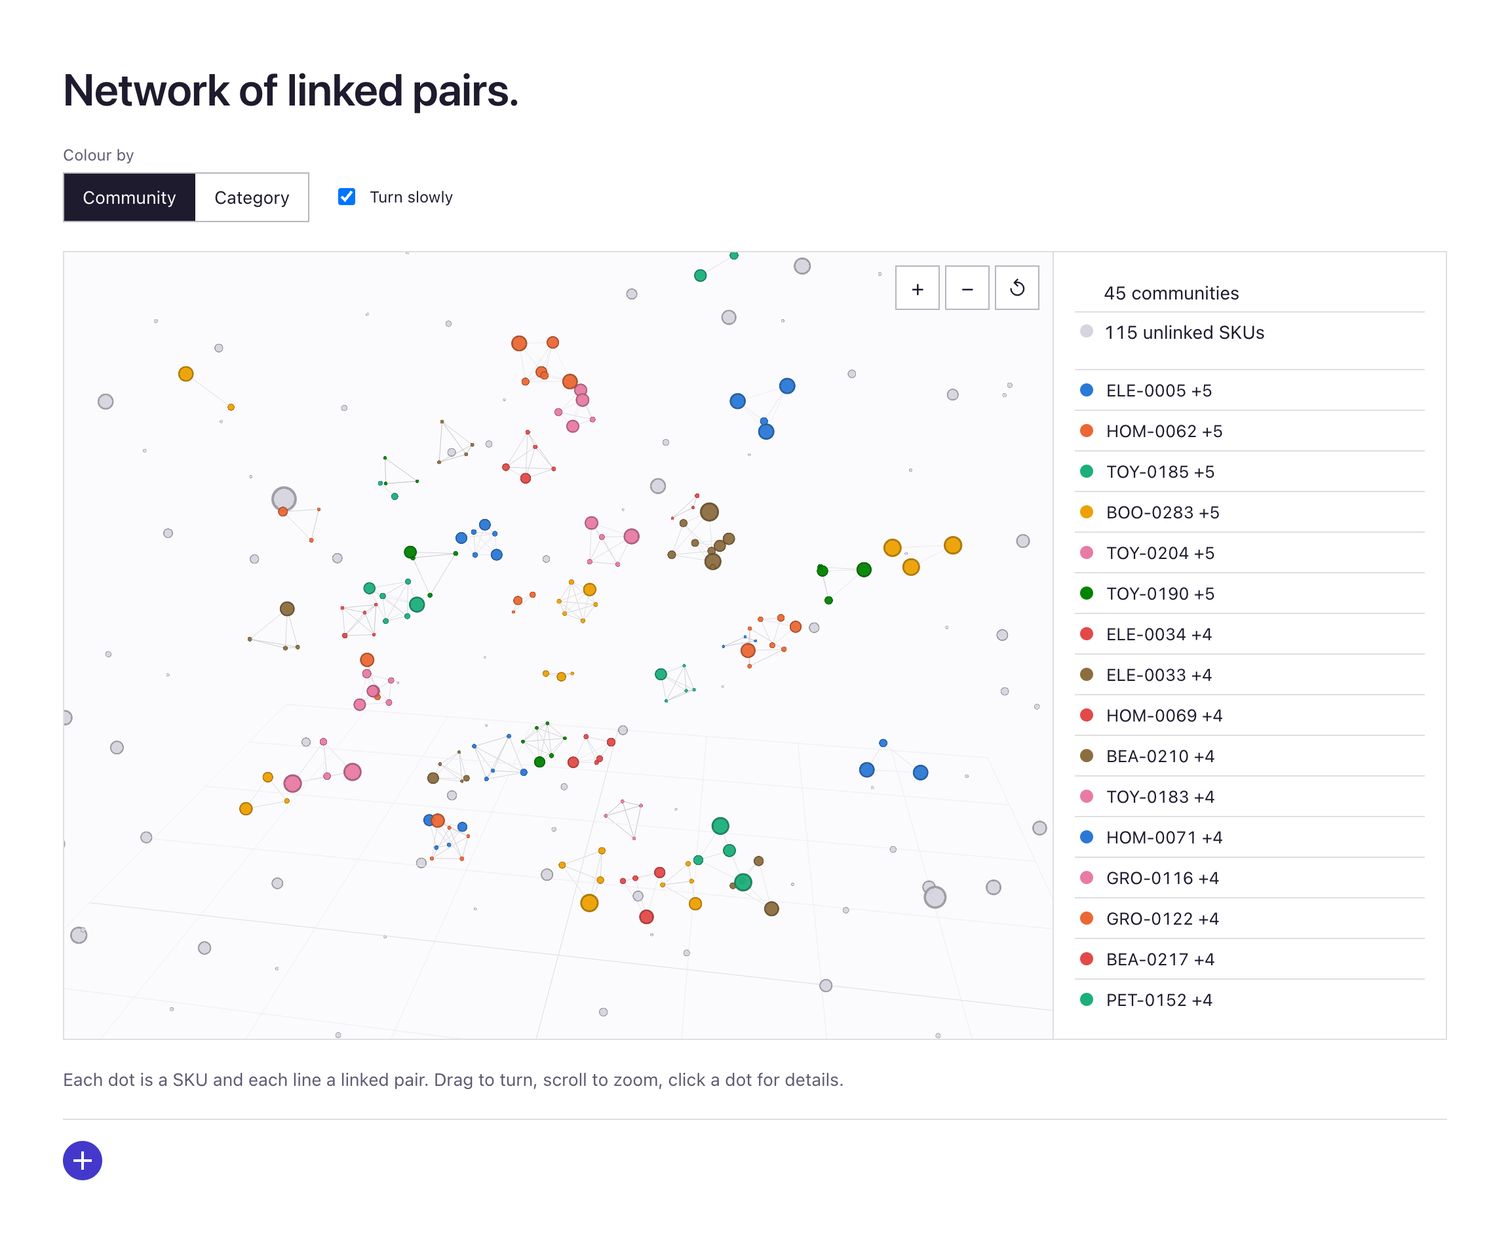
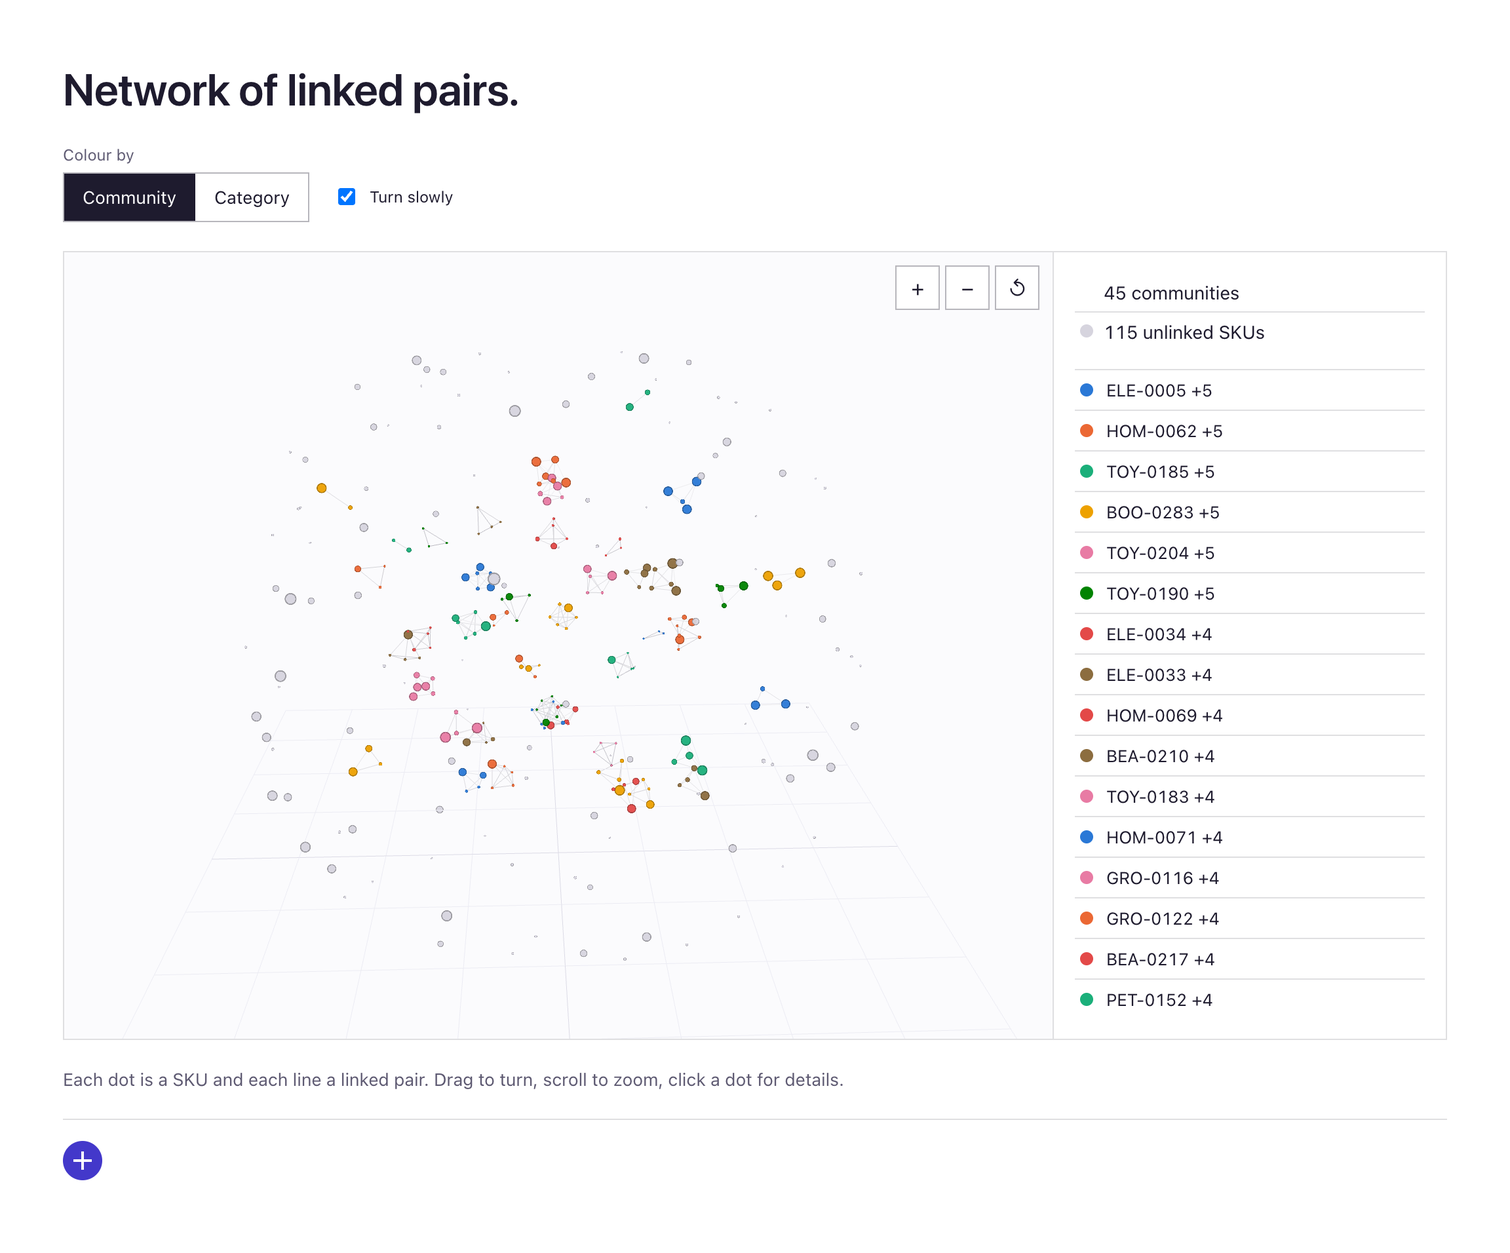
Shorter README, the replay's cash against the live game, new screenshots

diff --git a/backend/verification/replay_cash_chart.py b/backend/verification/replay_cash_chart.py
@@ -1,0 +1,90 @@
+"""Draw the README chart of the Run 3 replay's cash against the live game (five seeds).
+
+Usage: uv run --with matplotlib python verification/replay_cash_chart.py [out.png]
+"""
+
+import csv
+import statistics
+import sys
+from pathlib import Path
+
+import matplotlib
+
+matplotlib.use("Agg")
+import matplotlib.pyplot as plt  # noqa: E402
+from matplotlib import font_manager  # noqa: E402
+
+from scgame.engine import Engine  # noqa: E402
+from scgame.history import read_history_xlsx, replay  # noqa: E402
+from scgame.scenario import Scenario  # noqa: E402
+
+ROOT = Path(__file__).resolve().parents[2]
+OUT = Path(sys.argv[1]) if len(sys.argv) > 1 else ROOT / "docs" / "screenshots" / "replay-cash.png"
+DATA = ROOT / "reference" / "data"
+INK, ACCENT, MUTED, HAIR, BAND = "#1e1b2e", "#4338ca", "#6b6880", "#e6e4ec", "#f4f3f8"
+
+scenario = Scenario.load(ROOT / "scenarios" / "classic-network.json")
+decisions = read_history_xlsx(DATA / "run3_history.xlsx", {r.name: r.id for r in scenario.regions})
+live = {int(r["day"]): float(r["cash_thousands"]) * 1000 for r in csv.DictReader(open(DATA / "run3_live_cash.csv"))}
+
+runs = []
+for seed in range(5):
+    engine = Engine(scenario, seed=seed)
+    assert replay(engine, decisions) == []
+    runs.append({r.day: r.cash for r in engine.records})
+
+days = [d for d in range(731, 1461) if d in live]
+sim = [statistics.mean(run[d] for run in runs) for d in days]
+real = [live[d] for d in days]
+gap = [s - r for s, r in zip(sim, real)]
+gaps = [[run[d] - live[d] for d in days] for run in runs]
+print(f"final replay {sim[-1]:,.0f} live {real[-1]:,.0f} ({sim[-1] / real[-1] - 1:+.2%})")
+print("largest gap ($k):", max(abs(g) for row in gaps for g in row) / 1e3)
+
+for path in ("/System/Library/Fonts/SFNS.ttf",):
+    if Path(path).exists():
+        font_manager.fontManager.addfont(path)
+        plt.rcParams["font.family"] = font_manager.FontProperties(fname=path).get_name()
+plt.rcParams.update({"font.size": 13, "axes.edgecolor": HAIR, "axes.labelcolor": MUTED, "xtick.color": MUTED,
+                     "ytick.color": MUTED, "xtick.major.size": 0, "ytick.major.size": 0})
+
+fig, (top, low) = plt.subplots(2, 1, figsize=(11.52, 5.6), dpi=200, sharex=True,
+                               gridspec_kw={"height_ratios": [3, 1.15], "hspace": 0.2})
+fig.patch.set_facecolor("white")
+for ax in (top, low):
+    ax.set_facecolor("white")
+    for side in ("top", "right", "left"):
+        ax.spines[side].set_visible(False)
+    ax.spines["bottom"].set_color(HAIR)
+    ax.grid(axis="y", color=HAIR, linewidth=0.8)
+    ax.set_axisbelow(True)
+    ax.axvspan(730.5, 800.5, color=BAND, zorder=0, linewidth=0)
+
+top.plot(days, real, color=INK, linewidth=1.6, label="Live game")
+top.plot(days, sim, color=ACCENT, linewidth=1.6, label="Replay, five seeds")
+top.set_ylim(0, 30e6)
+top.set_yticks([0, 10e6, 20e6, 30e6])
+top.set_yticklabels(["0", "10", "20", "30"])
+top.set_ylabel("Cash ($M)")
+top.text(765.5, 28.6e6, "First ten\nweeks", ha="center", va="top", color=MUTED, fontsize=11, linespacing=1.25)
+top.text(1466, sim[-1], f"${sim[-1] / 1e6:.2f}M", color=INK, va="bottom", fontsize=12.5)
+top.text(1466, real[-1], f"${real[-1] / 1e6:.2f}M", color=INK, va="top", fontsize=12.5)
+legend = top.legend(loc="upper left", bbox_to_anchor=(0.125, 1.0), frameon=False, ncol=2, fontsize=12.5,
+                    handlelength=1.6, columnspacing=2.0)
+for t in legend.get_texts():
+    t.set_color(INK)
+
+low.axhline(0, color=INK, linewidth=0.8)
+for row in gaps:
+    low.plot(days, [g / 1e6 for g in row], color=ACCENT, linewidth=0.9, alpha=0.55)
+low.set_ylabel("Gap ($M)")
+low.set_ylim(-1.2, 2.6)
+low.set_yticks([-1, 0, 1, 2])
+low.set_yticklabels(["\u22121", "0", "1", "2"])
+low.set_xlim(730, 1460)
+low.set_xticks([730, 900, 1100, 1300, 1460])
+low.set_xlabel("Day")
+
+fig.subplots_adjust(left=0.07, right=0.915, top=0.97, bottom=0.12)
+fig.savefig(OUT, facecolor="white")
+print("saved", OUT)

diff --git a/README.md b/README.md
@@ -1,28 +1,25 @@
 # Supply Chain Studio
 
-Supply Chain Studio is a discrete-event simulator of a multi-region supply network, with a set of
-machine learning and operations research models for the long-term questions a network planner
-faces. The simulator runs a chemical producer's factories and warehouses across five regions, day
-by day, and every cost, lead time and event is a scenario parameter. It has been checked against a
-real run. Replaying all 1,770 decisions my team made in a live game, the simulated cash stays
-within $1k of the live game on almost every day of the first ten weeks and finishes 1.6% from the
-live result of $25.95M.
+A discrete-event simulator of a multi-region supply network, and a set of machine learning and
+operations research models for the long-term questions a network planner faces. The simulator is
+checked against a real run of the classroom game its rules come from. Replaying all 1,770
+decisions of that run ends 1.6% from the live final cash of $25.95M.
 
-<img src="docs/screenshots/simulator-network.png" alt="The simulator on day 1,201 of a replayed run, with factories and warehouses across the network" width="100%">
+<img src="docs/screenshots/simulator-network.png" alt="The simulator on day 1,201 of the replayed run" width="100%">
 
 ## Status
 
 **Done**
 
 - Simulator and scenario designer, checked against a real run
-- Product clustering (SKU segmentation)
-- Bought together (product affinity)
-- Demand five years out (probabilistic hierarchical forecasting)
+- Product clustering
+- Bought together
+- Demand five years out
 
 **In progress**
 
-- Demand in a new region, risk of split orders and a five-year network plan. The models are built
-  and their outputs committed, and their pages come next.
+- Demand in a new region, risk of split orders and a five-year network plan (models built, pages
+  next)
 
 **Planned**
 
@@ -30,31 +27,22 @@ live result of $25.95M.
 
 ## The simulator
 
-A run covers two years of play after two years of recorded history. Each region has its own
-demand, and orders arrive one at a time through the day. The player decides factory capacity,
-which factory supplies which warehouse, the order point and order quantity on every route, truck
-or mail, which warehouse serves each market and the fulfilment policy that picks the warehouse
-for each order. Capacity takes 90 days to come online and can never be reduced, holding costs
-accrue in transit as well as in the warehouse, and cash earns interest daily. The aim is the most
-cash at the end.
-
-The engine is written from scratch in Python as an event-driven simulation behind a FastAPI
-service, with a React and TypeScript front end. Every rule of the game has its own test.
+Two years of play across five regions, simulated day by day. Players set factory capacity, which
+factory supplies which warehouse, order points and quantities, truck or mail, which warehouse
+serves each market and the fulfilment policy, and try to finish with the most cash. The
+event-driven engine is written from scratch in Python, with a test for every rule.
 
 ## Checked against a real run
 
-The network rules follow The Supply Chain Game, a classroom simulation published by Responsive
-Learning Technologies, which I played with my team during my MSc. That gave the project something
-most simulators lack, a real run to check against. We won the network round (first of ten teams,
-96.88% fill rate), largely with a bot we wrote to play the live game around the clock, and the
-game's history page records every decision we made.
+The rules follow The Supply Chain Game, a classroom simulation by Responsive Learning
+Technologies. My team won its network round during my MSc (first of ten teams, 96.88% fill rate),
+largely with a bot we wrote to play around the clock, and the game's decision log became the test.
+Replayed at their exact times on the real demand, all 1,770 decisions are accepted. Cash stays
+within $6k of the live game on almost every day of the first ten weeks and ends 1.6% above it.
+The game does not export order times within a day, so the odd batch shifts by a day and the paths
+drift apart in the second year.
 
-The replay applies those decisions at their exact times on the real demand, and every one is
-accepted. The run ends at $26.38M against $25.95M live, averaged over five seeds. What remains
-comes from order timing within a day, which the live game does not export, so the odd batch shifts by a day and the
-two paths drift apart towards the end.
-
-<img src="docs/screenshots/simulator-cash.png" alt="The cash statement at the end of the replayed run" width="100%">
+<img src="docs/screenshots/replay-cash.png" alt="Cash of the replay against the live game, with the gap below" width="100%">
 
 ```bash
 cd backend && uv run python verification/run3_history_replay.py
@@ -62,116 +50,87 @@ cd backend && uv run python verification/run3_history_replay.py
 
 ## Scenarios and the designer
 
-Nine standard scenarios ship with the app, from the classic network to a sudden demand shock, a
-factory fire, a storm that cuts the island off for 60 days and a product that becomes obsolete
-early. The designer edits any of them or starts a new one. Prices, costs, lead times and interest
-are plain fields, and events sit on a timeline as bars you drag, each either announced in advance
-or a surprise. The demand, cost and interest charts redraw as you edit, so a scenario can be read
-before it is played.
+Nine standard scenarios range from the classic network to a demand shock, a factory fire and a
+storm that cuts off the island. The designer edits costs, prices and lead times and places events
+on a timeline, announced in advance or as surprises, and redraws demand and costs as you edit.
 
-<img src="docs/screenshots/designer.png" alt="The scenario designer with the event timeline and demand, cost and interest charts" width="100%">
+<img src="docs/screenshots/designer.png" alt="The scenario designer" width="100%">
 
 ## Models
 
-The classroom game has one product, so it cannot ask the questions that matter most for a network
-plan. The studio therefore generates its own world, a simulated online shop with 300 SKUs in eight
-categories, 30,000 customers in eight regions and five years of orders, about 450,000 baskets and
-a million order lines. The shop has hidden structure that I control, such as a demand type for
-every SKU and bundles of products bought together. Every model can then be scored against the
-ground truth as well as against the simple rules a planner would otherwise use.
+The game has a single product, so the studio generates its own world, an online shop with 300
+SKUs, 30,000 customers in eight regions and five years of orders. Its hidden structure, such as
+each SKU's demand type and the bundles customers buy together, is known. Every model is therefore
+scored against the ground truth as well as against the rules a planner would otherwise use, with
+settings chosen on a validation set and results taken from a held-out test set.
 
-Each model has its own page, written as a short story that opens with the question, walks through
-the data and the method, and ends on the results. Methods and definitions sit in drawers behind a
-plus icon, so the surface stays readable. Every setting is chosen on a validation set, the results
-come from a held-out test set, and any choice the ground truth informed is disclosed on the page.
-
-<img src="docs/screenshots/models-home.png" alt="The models home page, with three finished models and four greyed out" width="100%">
+<img src="docs/screenshots/models-home.png" alt="The models page, with three finished models and four greyed out" width="100%">
 
 ### Product clustering
 
-Which SKUs sell alike, so each cluster can get its own stocking policy? Every SKU is described by
-16 features covering sales volume, variability, intermittency, seasonality and trend, size and
-weight, price and margin, and basket. Clustering methods, feature sets and k are compared on the
-validation year by the cost of the stocking policies each clustering leads to, and k-means with
-nine clusters wins. Each cluster is named only by traits most of its members share, and a test
-checks every name.
+Which SKUs sell alike, so each cluster can get its own stocking policy? k-means and Gaussian
+mixtures group the SKUs on up to 16 features of demand, size, price and basket. The setting with
+the highest purity recovers the hidden demand types almost exactly.
 
-<img src="docs/screenshots/clustering-map.png" alt="SKUs in feature space, coloured by cluster" width="100%">
+<img src="docs/screenshots/clustering-map.png" alt="SKUs in feature space at the highest-purity setting" width="100%">
 
-On the test year, nine cluster policies cost $2.03M, against $2.14M for ABC/XYZ analysis and
-$2.19M for one policy for every SKU, and they come within 1.5% of tuning all 300 SKUs one by one.
-They are even cheaper than grouping by the true demand types ($2.07M), although their purity
-against those types is only 61%. The trade-off chart shows why. The grouping that is cheapest to
-stock is not the one that best recovers the hidden types.
+Chosen by stocking cost instead, nine k-means clusters cost $2.03M on the test year, against $2.14M for
+ABC/XYZ analysis and $2.19M for one policy for every SKU. Recovering the types and stocking
+cheaply turn out to be different goals.
 
-<img src="docs/screenshots/clustering-tradeoff.png" alt="Stocking cost against purity for every setting of features, method and k" width="100%">
+<img src="docs/screenshots/clustering-tradeoff.png" alt="Stocking cost against purity for every setting" width="100%">
 
 ### Bought together
 
-Which SKUs are bought together, so they should be stored in the same FC? Raw co-occurrence counts
-mostly find best sellers that share a basket by chance. Each pair's count is therefore compared
-with the count chance predicts within the same region, basket size and quarter, which gives its
-lift. A Poisson test with false discovery rate control keeps only the pairs linked beyond chance,
-and Louvain community detection turns the linked pairs into 45 communities.
+Which SKUs are bought together, so they should share an FC? Each pair's co-occurrences are
+compared with chance within region, basket size and quarter. A Poisson test with false discovery
+rate control keeps the linked pairs, and Louvain community detection groups them into 45
+communities, which recover all 45 bundles planted in the shop.
 
 <img src="docs/screenshots/affinity-network.png" alt="The network of linked pairs, coloured by community" width="100%">
 
-The communities recover all 45 bundles planted in the shop exactly. Stored together in two FCs,
-under the same SKU and workload limits for every rule, they split 34.7% of test-year orders,
-against 35.8% when SKUs are stored by category and 39.4% at random. The gain is modest because
-most baskets mix unrelated items, and a simulated shop's bundles are cleaner than a real shop's
-would be.
+Stored together across two FCs, the communities split 34.7% of test-year orders, against 35.8%
+by category and 39.4% at random. The gain is modest because most baskets mix unrelated items.
 
-<img src="docs/screenshots/affinity-results.png" alt="Share of split orders under each assignment rule" width="100%">
+<img src="docs/screenshots/affinity-results.png" alt="Split orders under each assignment rule" width="100%">
 
 ### Demand five years out
 
-How much will each region and category sell over five years, and how sure are we? Four methods
-forecast every level of the hierarchy, from the total down to each SKU in each region. They are
-seasonal naive, ETS, LightGBM and a small neural network, the last two trained on all series at
-once. Bands come from 1,000 joint sample paths built from out-of-sample errors, and reconciliation
-makes every level add up. The neural network won on validation and was refitted on years 1 to 5
-to forecast years 6 to 10.
+How much will each region and category sell over five years, and how sure are we? Seasonal naive,
+ETS, LightGBM and a small neural network forecast every level from the total down to each SKU in
+each region, with bands from 1,000 reconciled sample paths.
 
-<img src="docs/screenshots/forecast-fan.png" alt="The five-year forecast for total demand against the actual" width="100%">
+<img src="docs/screenshots/forecast-fan.png" alt="The five-year forecast of total demand against the actual" width="100%">
 
-At the total the learned models are the most accurate for the first three years. After that ETS,
-which damps growth, is closer, because the slowdown in the test years is not visible in the
-history. Turned into capacity decisions, LightGBM gives the cheapest plan, 4.7% above a plan built
-from the ground truth. The chosen network comes in at 8.1%, and rebuilding last year's peak at
-17.8%. The ranking depends on the test years, and the page says so. On an earlier draw, where
-growth stopped altogether, last year's peak was the cheapest.
+At the total the learned models lead for three years, then ETS, which damps growth, catches up. As capacity
+plans, LightGBM costs 4.7% more than a plan built from the ground truth, the chosen neural network
+8.1% and rebuilding last year's peak 17.8%. On an earlier draw of the test years last year's peak
+was cheapest, and the page says so.
 
 <img src="docs/screenshots/forecast-results.png" alt="Capacity cost of each plan over the ground-truth plan" width="100%">
 
 ## Roadmap
 
-Three more models are built, with their outputs committed, and their pages are next.
-
-- **Demand in a new region.** How much would a new region sell before it has any history? A
-  regression on region traits, trained on the regions that already trade.
-- **Risk of split orders.** Which orders and SKUs are likely to ship in more than one parcel under
-  a planned network? A gradient-boosted classifier with calibrated probabilities.
-- **Network plan.** Where to open or expand FCs, and by how much, over five years? A multi-period
-  mixed-integer programme over demand scenarios drawn from the forecast.
-- **Instant what-if** (planned). Expand FC A or FC B, and what happens to cost and service? A
-  surrogate model trained on simulator runs, so the answer takes milliseconds rather than a full
-  simulation.
+- **Demand in a new region.** A regression on region traits for markets with no history.
+- **Risk of split orders.** A calibrated gradient-boosted classifier for orders and SKUs under a
+  planned network.
+- **Network plan.** A multi-period mixed-integer programme for where to open or expand FCs over
+  five years.
+- **Instant what-if.** A surrogate of the simulator that answers in milliseconds.
 
 ## Quick start
 
-Requirements are [uv](https://docs.astral.sh/uv/) and Node.js.
+Requires [uv](https://docs.astral.sh/uv/) and Node.js.
 
 ```bash
 git clone https://github.com/Kilian-S/supply-chain-studio.git
 cd supply-chain-studio
-cd backend && uv sync && cd ..
 ./dev.sh            # API on :8000, web app on http://localhost:5173, Ctrl+C stops both
 ```
 
 Model outputs are committed in `data/models/`, so every page works from a plain checkout. To
-rebuild a model, generate the simulated shop first (about three seconds, identical every time).
-On macOS the forecasting models also need `brew install libomp` for LightGBM.
+rebuild a model, generate the shop first (about three seconds, identical every time). On macOS,
+LightGBM also needs `brew install libomp`.
 
 ```bash
 cd backend
@@ -186,24 +145,22 @@ uv run python -m scgame.ml.sku_segmentation ../data/world_v1 ../data/models/sku-
 (cd frontend && npx tsc --noEmit -p tsconfig.app.json && npx eslint src/models && npx vitest run)
 ```
 
-- 228 Python tests, covering every engine rule, the API, the replay of the real run and each model.
-- Every visible string on the model pages lives in one file per page and is checked by a wording
-  test.
+228 Python tests cover every engine rule, the API, the replay of the real run and each model.
+Every visible string on the model pages is checked by a wording test.
 
 ## Layout
 
 | Path | Contents |
 |---|---|
-| `backend/src/scgame/` | Engine, scenario schema, demand, history import and the FastAPI app |
-| `backend/src/scgame/world/` | Generator of the simulated shop and its future years |
+| `backend/src/scgame/` | Engine, scenarios, demand, history import and the FastAPI app |
+| `backend/src/scgame/world/` | Generator of the simulated shop |
 | `backend/src/scgame/ml/` | The models and the simulations that price their decisions |
-| `backend/tests/` | Engine, API and model tests |
-| `backend/verification/` | Replays of the real run and of our bot |
+| `backend/verification/` | Replays of the real run and the chart above |
 | `frontend/` | React and TypeScript app with the simulator, designer and model pages |
 | `scenarios/` | Standard scenarios as JSON, plus the recorded demand |
 | `data/models/` | Model outputs read by the pages |
-| `design/` | Storylines, reviews and handovers behind each model page |
-| `reference/` | Notes on the game mechanics and exports from the live run |
+| `docs/` | Plan, roadmap, and the design notes and reviews behind each page |
+| `reference/` | Game mechanics notes and exports from the live run |
 
 ## About
 

diff --git a/reference/GAME_MECHANICS.md b/reference/GAME_MECHANICS.md
@@ -2,8 +2,8 @@
 
 Summary of the mechanics of the Supply Chain Game (developed at Kellogg, Northwestern, and published by
 Responsive Learning Technologies). Written in our own words from
-the course documents in `original_game/`, our G4 simulator code and the saved page snapshots. The
-original's text, artwork and names are not reused in the app.
+the course documents, our G4 simulator code and the saved page snapshots. The original's text and
+artwork are not reused in the app, but its region names are.
 
 ## World
 - One product (drums of an industrial chemical). Four continental regions and one island.
@@ -93,7 +93,8 @@ notes override these. Our app makes every cost a scenario parameter.
 ## Engine verification (October 2026)
 Replaying all 1,770 real decisions at their exact times on the real demand
 (`backend/verification/run3_history_replay.py`, regression test `tests/test_run3_replay.py`):
-- every decision accepted; cash within $1k of the live game on almost every day up to day 800;
+- every decision accepted; cash within $6k of the live game on almost every day up to day 800 in
+  each of ten seeds (within $1k in eight of them; live cash is reported in thousands);
 - final cash $26.38M vs $25.95M live (+1.6%, five seeds, sd $33k); capacity spend within $842;
 - remaining gap: order times within a day are random in our rebuild, so batches and big orders
   shift by a day; the replayed order points then meet slightly different stock levels, and the
